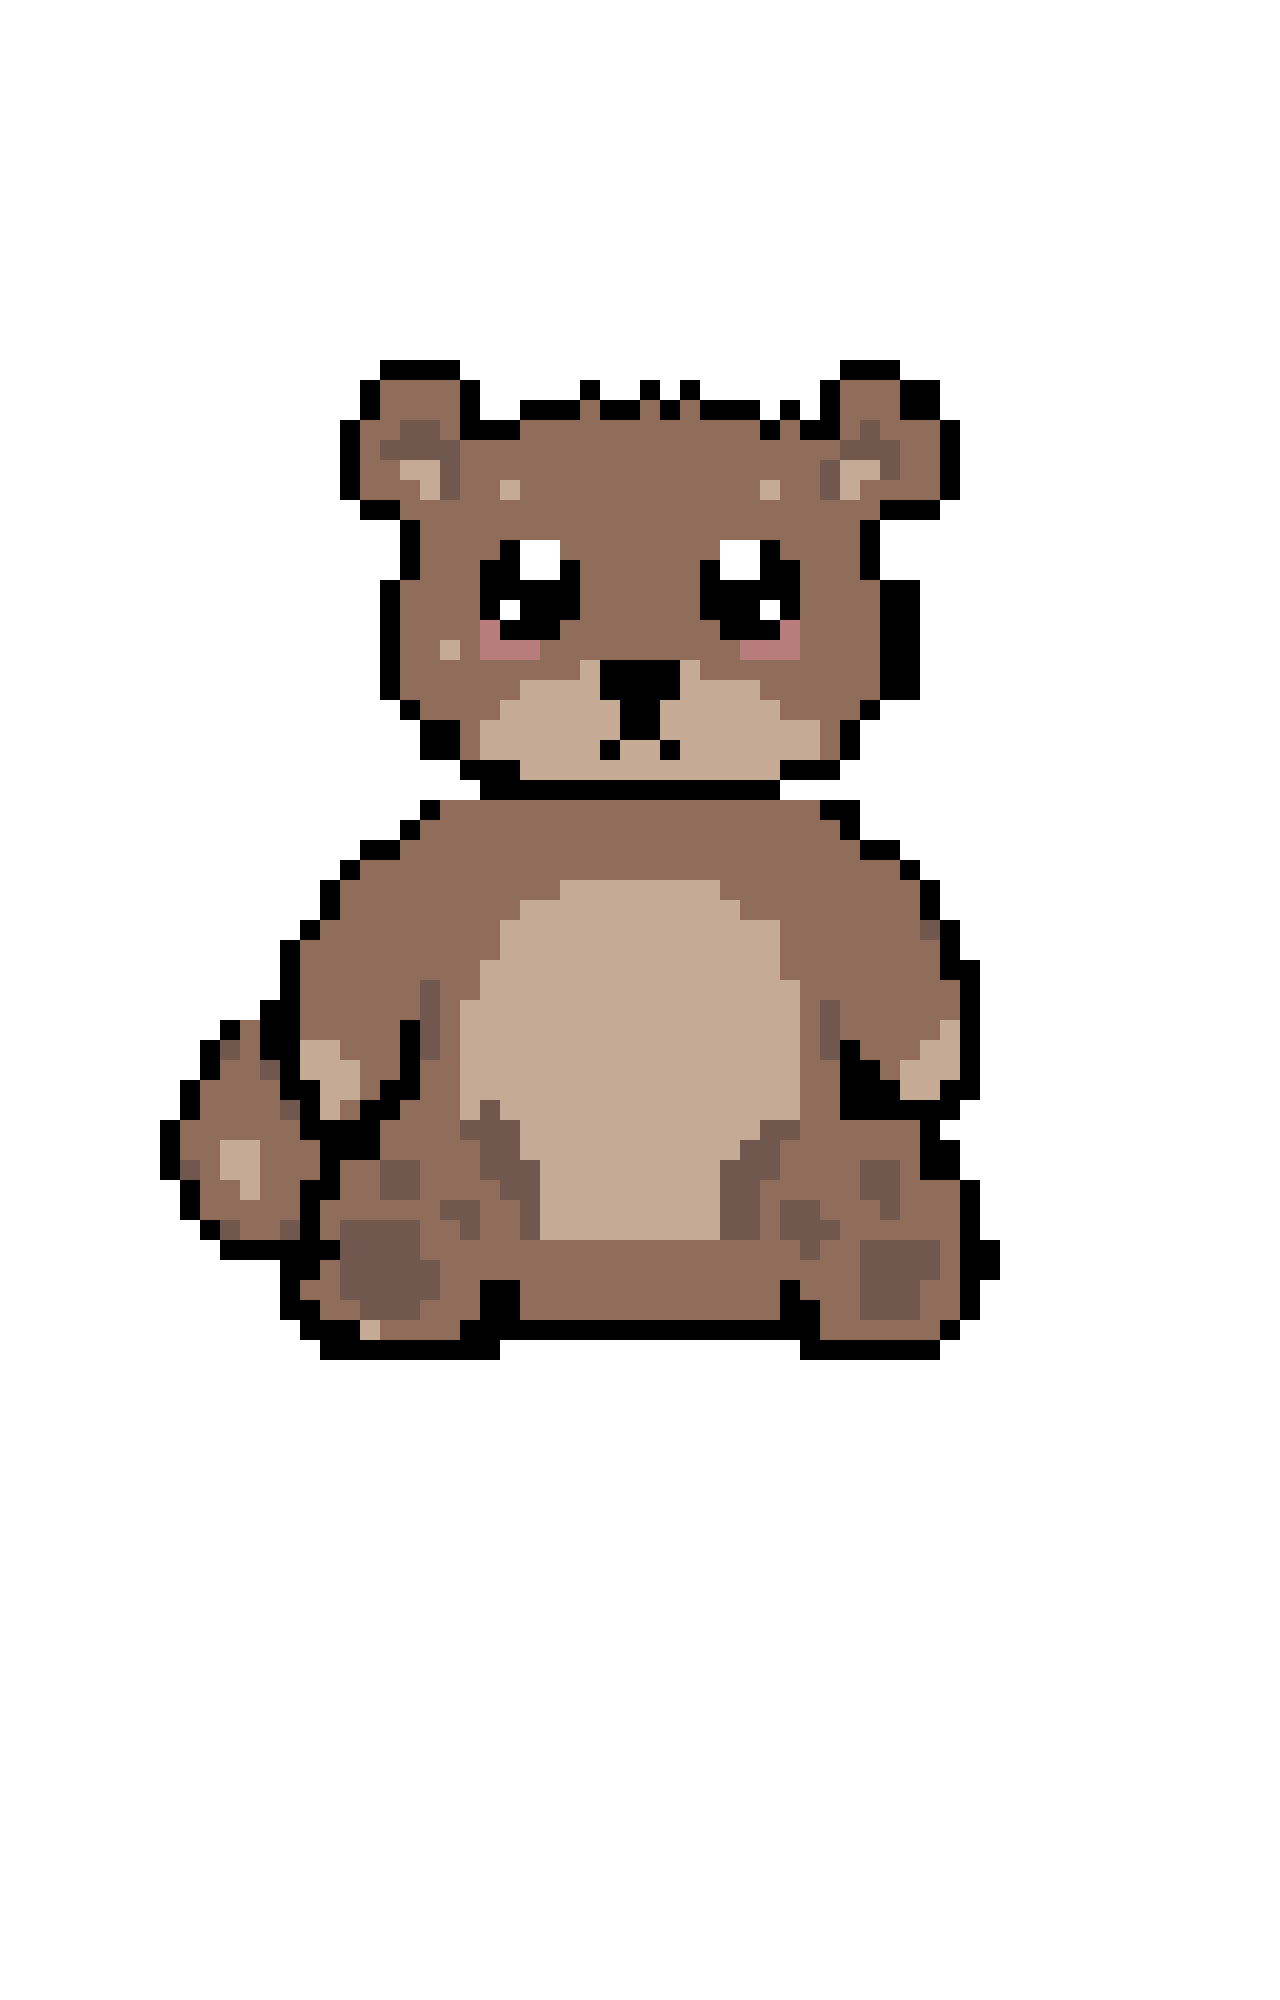
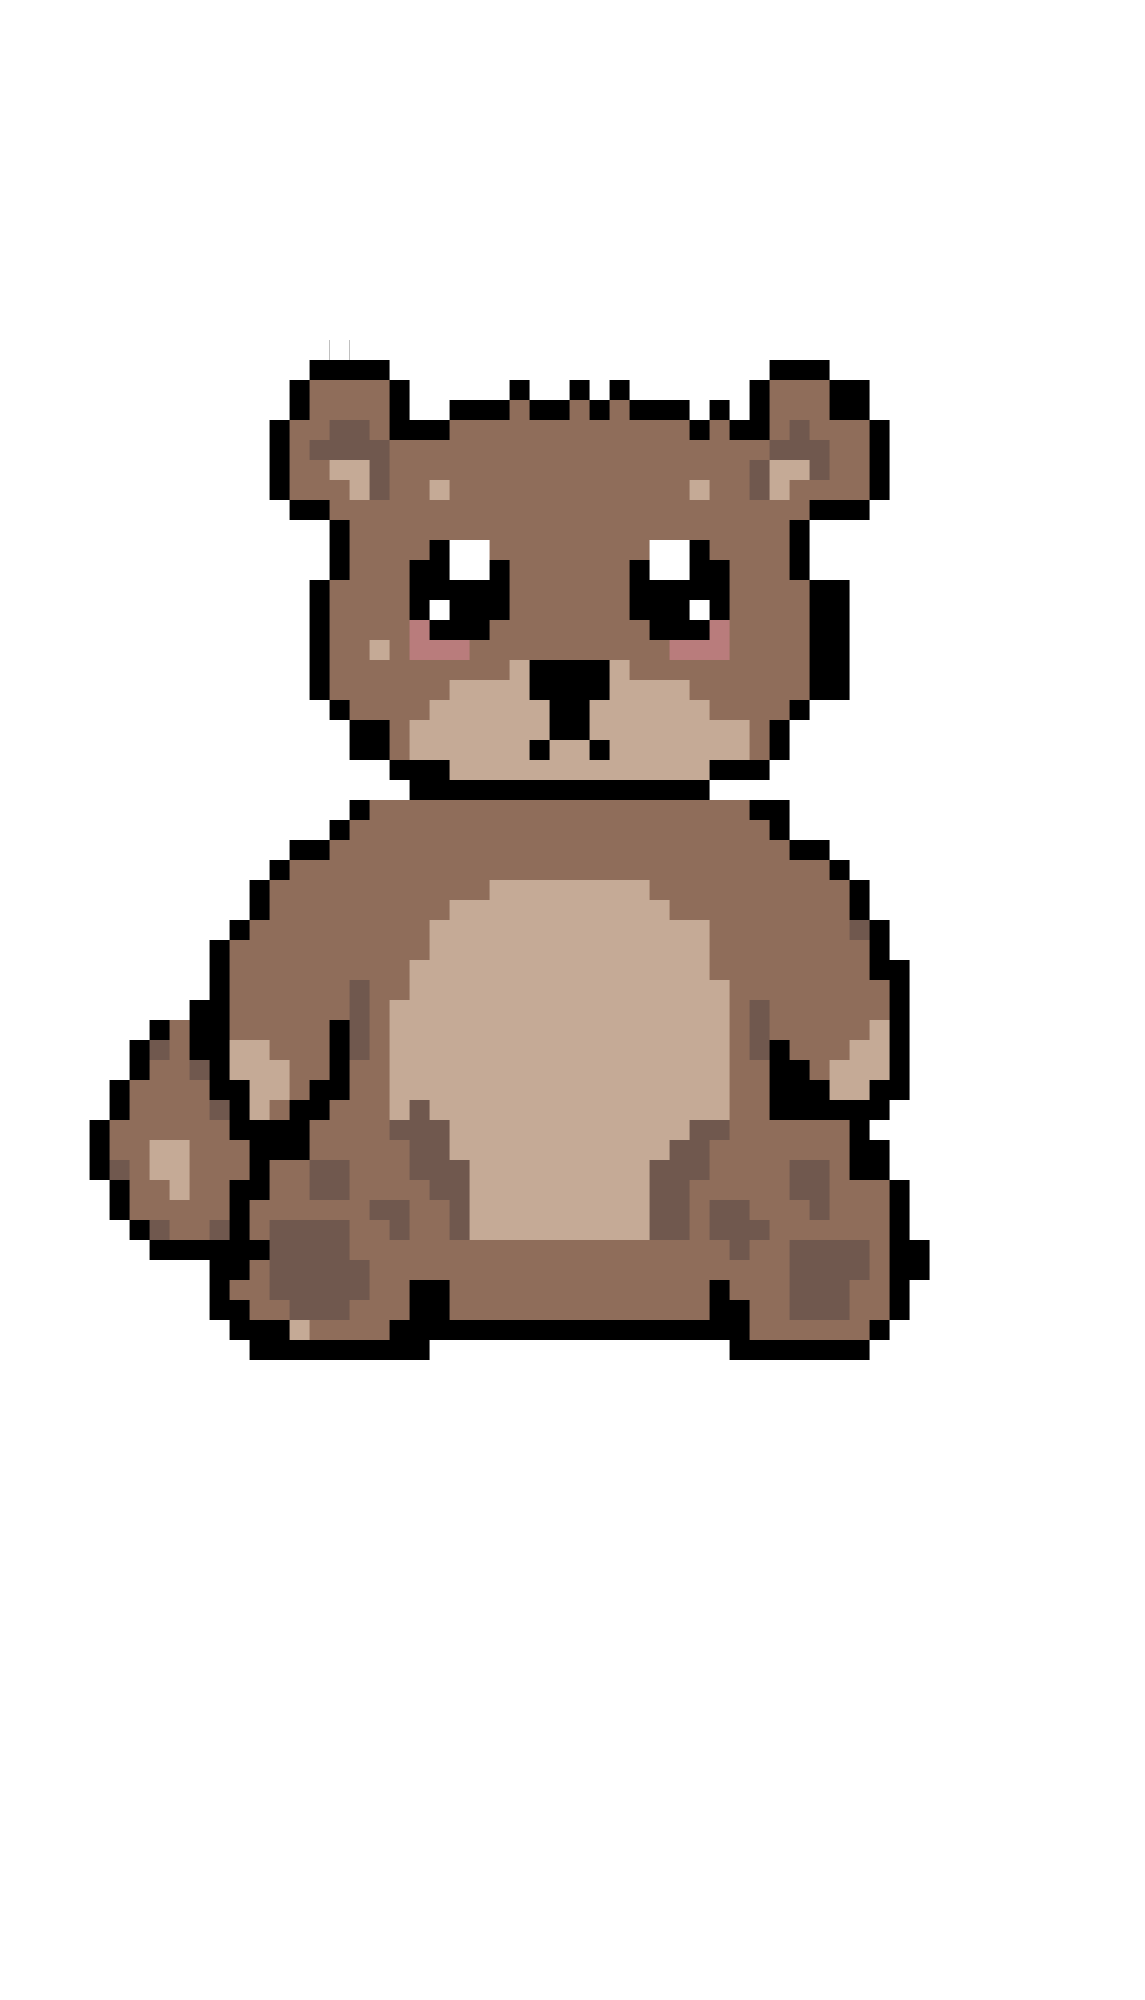
stuff

diff --git a/frontend/src/pages/Battle.tsx b/frontend/src/pages/Battle.tsx
@@ -1,6 +1,6 @@
+import { Link } from 'react-router-dom'
 import Deerhappy from '../assets/Deerhappy.png'
-import Bearhappy from '../assets/Bearhappy.png'
-import Bearidle from '../assets/Bearhappy.png'
+import Bearidle from '../assets/Bearidle.png'
 import Bunnyidle from '../assets/Bunnyidle.png'
 import Deersad from '../assets/Deersad.png'
 import Bunnysad from '../assets/Bunnysad.png'
@@ -8,106 +8,31 @@ import Bunnysad from '../assets/Bunnysad.png'
 
 function Battle(){
     return(
-        <> 
-        <section id="intro">
-            <h1> Battle!</h1>
-            <p> Battle your friends and see who has the best pet! </p>
-        </section>
+    <> 
+    <section id="intro">
+    <h1> Battle!</h1>
+    <p> Battle your friends and see who has the best pet! </p>
+    <p> Your Friends </p>
+    </section>
 
         
-        <section id="friendslist">
-            <p> Your Friends </p>
-            <div className = "Ethan">
-            <p className = "friend"> Ethan </p>
+    <section id="friendslist">
+        
+        
+        <div className = "Ethan">
 
-            <div className = "krish">
-                <p className = "indent"> Krish </p>
-                <img src = {Bunnysad} alt = "Krish" className = "krish"/>
-                    <p className = "friendpetinfo"> lvl: 1</p>
-                    <p className = "friendpetinfo"> attack: 5 </p>
-                    <p className = "friendpetinfo"> defense: 5 </p>
-                    <p className = "friendpetinfo"> health: 5 </p>
-                </div>
-            <div className = "kyan">
-            <p className = "indent"> Kyan </p>
-                <img src = {Deerhappy} alt = "Kyan" className = "Kyan"/>
-                    <p className = "friendpetinfo"> lvl: 7</p>
-                    <p className = "friendpetinfo"> attack: 68 </p>
-                    <p className = "friendpetinfo"> defense: 75 </p>
-                    <p className = "friendpetinfo"> health: 73 </p>
+        <Link to="/friends/ethan">Ethan</Link>
+        
             </div>
-            <div className = "julian">
-            <p className = "indent"> Julian </p>
-                <img src = {Bearidle} alt = "Julian" className = "julian"/>
-                    <p className = "friendpetinfo"> lvl: 4</p>
-                    <p className = "friendpetinfo"> attack: 43 </p>
-                    <p className = "friendpetinfo"> defense: 57 </p>
-                    <p className = "friendpetinfo"> health: 64 </p>
-            </div>
-            </div>
+     <div className = "Owen">
+        
+        <Link to="/friends/owen">Owen</Link>
+        
+                 </div>
 
-
-
-                
-        <div className = "Owen">
-            <p className = "friend"> Owen </p>
-            <div className = "Rachel">
-                <p className = "indent"> Rachel </p>
-                    <p className = "friendpetinfo"> lvl: 9</p>
-                    <p className = "friendpetinfo"> attack: 89 </p>
-                    <p className = "friendpetinfo"> defense: 87 </p>
-                    <p className = "friendpetinfo"> health: 95 </p>
-                    <img src = {Bearhappy} alt = "Rachel" className = "Rachel"/>
-            </div>
-            <div className = "Arden">
-                <p className = "indent"> Arden </p>
-                    <p className = "friendpetinfo"> lvl: 6</p>
-                    <p className = "friendpetinfo"> attack: 65 </p>
-                    <p className = "friendpetinfo"> defense: 71 </p>
-                    <p className = "friendpetinfo"> health: 65 </p>
-                    <img src = {Bunnyidle} alt = "Arden" className = "Arden"/>
-            </div>
-            <div className = "Lauren">
-                <p className = "indent"> Lauren </p>
-                    <p className = "friendpetinfo"> lvl: 5</p>
-                    <p className = "friendpetinfo"> attack: 51 </p>
-                    <p className = "friendpetinfo"> defense: 59 </p>
-                    <p className = "friendpetinfo"> health: 62 </p>
-                    <img src = {Deersad} alt = "Lauren" className = "Lauren"/>
-
-                
-            </div>
-            </div>
-
-            <div className = "Samarth">
-            <p className = "friend"> Samarth </p>
-            <div className = "Srija">
-                <p className = "indent"> Srija </p>
-                    <p className = "friendpetinfo"> lvl: 7</p>
-                    <p className = "friendpetinfo"> attack: 54 </p>
-                    <p className = "friendpetinfo"> defense: 45 </p>
-                    <p className = "friendpetinfo"> health: 67 </p>
-                    <img src = {Bunnyidle} alt = "Srija" className = "Srija"/>
-
-            </div>
-
-            <div className = "Alicia">
-                <p className = "indent"> Alicia </p>
-                    <p className = "friendpetinfo"> lvl: 10</p>
-                    <p className = "friendpetinfo"> attack: 97 </p>
-                    <p className = "friendpetinfo"> defense: 95 </p>
-                    <p className = "friendpetinfo"> health: 100 </p>
-                    <img src = {Bearhappy} alt = "Alicia" className = "Alicia"/>
-            </div>
-            <div className = "Jaedon">
-                <p className = "indent"> Jaedon </p>
-                    <p className = "friendpetinfo"> lvl: 4</p>
-                    <p className = "friendpetinfo"> attack: 49 </p>
-                    <p className = "friendpetinfo"> defense: 43 </p>
-                    <p className = "friendpetinfo"> health: 50 </p>
-                    <img src = {Bearidle} alt = "Jaedon" className = "Jaedon"/>
-                </div>
-
+        <div className = "Samarth">
+        <Link to="/friends/samarth">Samarth</Link>
+        
             </div>
         </section>
 
@@ -116,4 +41,5 @@ function Battle(){
     );
 
 }
+
 export default Battle;

diff --git a/frontend/src/pages/owen.tsx b/frontend/src/pages/owen.tsx
@@ -1,0 +1,41 @@
+import { Link } from 'react-router-dom'
+import Deerhappy from '../assets/Deerhappy.png'
+import Bearidle from '../assets/Bearidle.png'
+import Bunnyidle from '../assets/Bunnyidle.png'
+import Deersad from '../assets/Deersad.png'
+import Bunnysad from '../assets/Bunnysad.png'
+
+function Owen(){
+    return(
+
+    <div className = "OWEN">
+        <div className = "Rachel">
+                <p className = "indent"> Rachel </p>
+                    <p className = "friendpetinfo"> lvl: 9</p>
+                    <p className = "friendpetinfo"> attack: 89 </p>
+                    <p className = "friendpetinfo"> defense: 87 </p>
+                <p className = "friendpetinfo"> health: 95 </p>
+                <img src = {Bearidle} alt = "Rachel" className = "manorbear"/>
+                </div>
+                <div className = "Arden">
+                <p className = "indent"> Arden </p>
+                    <p className = "friendpetinfo"> lvl: 6</p>
+                    <p className = "friendpetinfo"> attack: 65 </p>
+                    <p className = "friendpetinfo"> defense: 71 </p>
+                    <p className = "friendpetinfo"> health: 65 </p>
+                    <img src = {Bunnyidle} alt = "Arden" className = "hiimbunny"/>
+                </div>
+                <div className = "Lauren">
+                <p className = "indent"> Lauren </p>
+                    <p className = "friendpetinfo"> lvl: 5</p>
+                    <p className = "friendpetinfo"> attack: 51 </p>
+                    <p className = "friendpetinfo"> defense: 59 </p>
+                    <p className = "friendpetinfo"> health: 62 </p>
+                    <img src = {Deersad} alt = "Lauren" className = "deer"/>
+                </div>
+            </div>
+
+    )
+}
+
+export default Owen

diff --git a/frontend/src/pages/ethan.tsx b/frontend/src/pages/ethan.tsx
@@ -1,0 +1,48 @@
+
+import { Link } from 'react-router-dom'
+import Deerhappy from '../assets/Deerhappy.png'
+import Bearidle from '../assets/Bearidle.png'
+import Bunnyidle from '../assets/Bunnyidle.png'
+import Deersad from '../assets/Deersad.png'
+import Bunnysad from '../assets/Bunnysad.png'
+
+function Ethan(){
+    return(
+
+    <div className = "Ethanspets">
+    <div className = "krish">
+            <p className = "indent"> Krish </p>
+            
+            <p className = "friendpetinfo"> lvl: 1</p>
+            <p className = "friendpetinfo"> attack: 5 </p>
+            <p className = "friendpetinfo"> defense: 5 </p>
+            <p className = "friendpetinfo"> health: 5 </p>
+                <img src = {Bunnysad} alt = "Krish" className = "hiimbunny"/>
+            </div>
+
+            <div className = "kyan">
+            <p className = "indent"> Kyan </p>
+            
+            <p className = "friendpetinfo"> lvl: 7</p>
+            <p className = "friendpetinfo"> attack: 68 </p>
+            <p className = "friendpetinfo"> defense: 75 </p>
+            <p className = "friendpetinfo"> health: 73 </p>
+                <img src = {Deerhappy} alt = "Kyan" className = "deer"/>
+            
+            </div>
+                
+                
+            <div className = "julian">
+            <p className = "indent"> Julian </p>
+            
+            <p className = "friendpetinfo"> lvl: 4</p>
+            <p className = "friendpetinfo"> attack: 43 </p>
+            <p className = "friendpetinfo"> defense: 57 </p>
+            <p className = "friendpetinfo"> health: 64 </p>
+            <img src = {Bearidle} alt = "Julian" className = "manorbear"/>
+            </div>
+            </div>
+    )
+}
+
+export default Ethan

diff --git a/frontend/src/pages/samarth.tsx b/frontend/src/pages/samarth.tsx
@@ -1,0 +1,46 @@
+import Deerhappy from '../assets/Deerhappy.png'
+import Bearidle from '../assets/Bearidle.png'
+import Bunnyidle from '../assets/Bunnyidle.png'
+import Deersad from '../assets/Deersad.png'
+import Bunnysad from '../assets/Bunnysad.png'
+
+
+function Samarth() {
+    return(
+    <div className = "Samarth">
+        <div className = "Srija">
+        <p className = "indent"> Srija </p>
+        
+            <p className = "friendpetinfo"> lvl: 7</p>
+            <p className = "friendpetinfo"> attack: 54 </p>
+            <p className = "friendpetinfo"> defense: 45 </p>
+            <p className = "friendpetinfo"> health: 67 </p>
+            <img src = {Bunnyidle} alt = "Srija" className = "hiimbunny"/>
+
+            </div>
+
+            <div className = "Alicia">
+                <p className = "indent"> Alicia </p>
+                    <p className = "friendpetinfo"> lvl: 10</p>
+                    <p className = "friendpetinfo"> attack: 97 </p>
+                    <p className = "friendpetinfo"> defense: 95 </p>
+                    <p className = "friendpetinfo"> health: 100 </p>
+                    <img src = {Deerhappy} alt = "Alicia" className = "deer"/>
+            </div>
+            <div className = "Jaedon">
+            <p className = "indent"> Jaedon </p>
+                <p className = "friendpetinfo"> lvl: 4</p>
+                <p className = "friendpetinfo"> attack: 49 </p>
+                <p className = "friendpetinfo"> defense: 43 </p>
+                <p className = "friendpetinfo"> health: 50 </p>
+                <img src = {Bearidle} alt = "Jaedon" className = "manorbear"/>
+            </div>
+            </div>
+
+
+
+    )
+
+}
+
+export default Samarth

diff --git a/frontend/src/App.tsx b/frontend/src/App.tsx
@@ -3,6 +3,9 @@ import { BrowserRouter, Routes, Route, Link } from 'react-router-dom'
 import Home from './pages/Home'
 import Pets from './pages/Pets'
 import Battle from './pages/Battle'
+import Ethan from './pages/Ethan'
+import Owen from './pages/owen'
+import Samarth from './pages/samarth'
 
 function App() {
   return (
@@ -17,6 +20,9 @@ function App() {
         <Route path="/" element={<Home />} />
         <Route path="/pets" element={<Pets />} />
         <Route path="/battle" element={<Battle />} />
+        <Route path="/friends/ethan" element={<Ethan />} />
+        <Route path="/friends/owen" element={<Owen />} />
+        <Route path="/friends/samarth" element={<Samarth />} />
       </Routes>
     </BrowserRouter>
   )

diff --git a/frontend/src/App.css b/frontend/src/App.css
@@ -1,3 +1,5 @@
+
+
 .counter {
   font-size: 16px;
   padding: 5px 10px;
@@ -186,3 +188,34 @@
 .friendpetinfo {
     text-transform: uppercase;
 }
+
+.hiimbunny {
+    width: 200px;
+    height: 300px
+}
+
+.deer {
+    width: 270px;
+    height: 300px
+}
+
+.manorbear {
+    width: 250px;
+}
+
+#friendslist {
+    display: grid;
+    grid-template-columns: 1fr 1fr 1fr;
+    background-color: #ddc7a4;
+    column-gap: 50px;
+    gap: 1rem
+}
+#friendslist > div {
+  padding: 1.5rem;
+  background-color: #ddc7a4;
+  border: 2px solid #e8dce1;
+  border-radius: 8px;
+}
+
+
+
